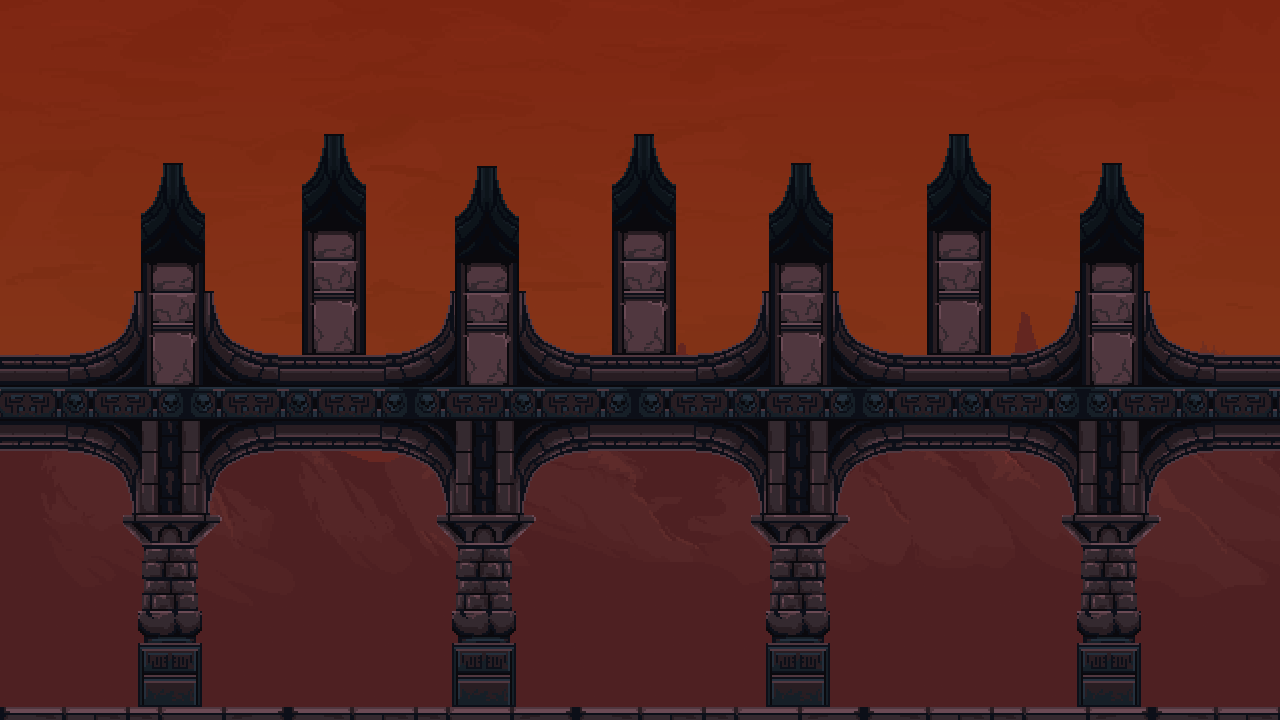
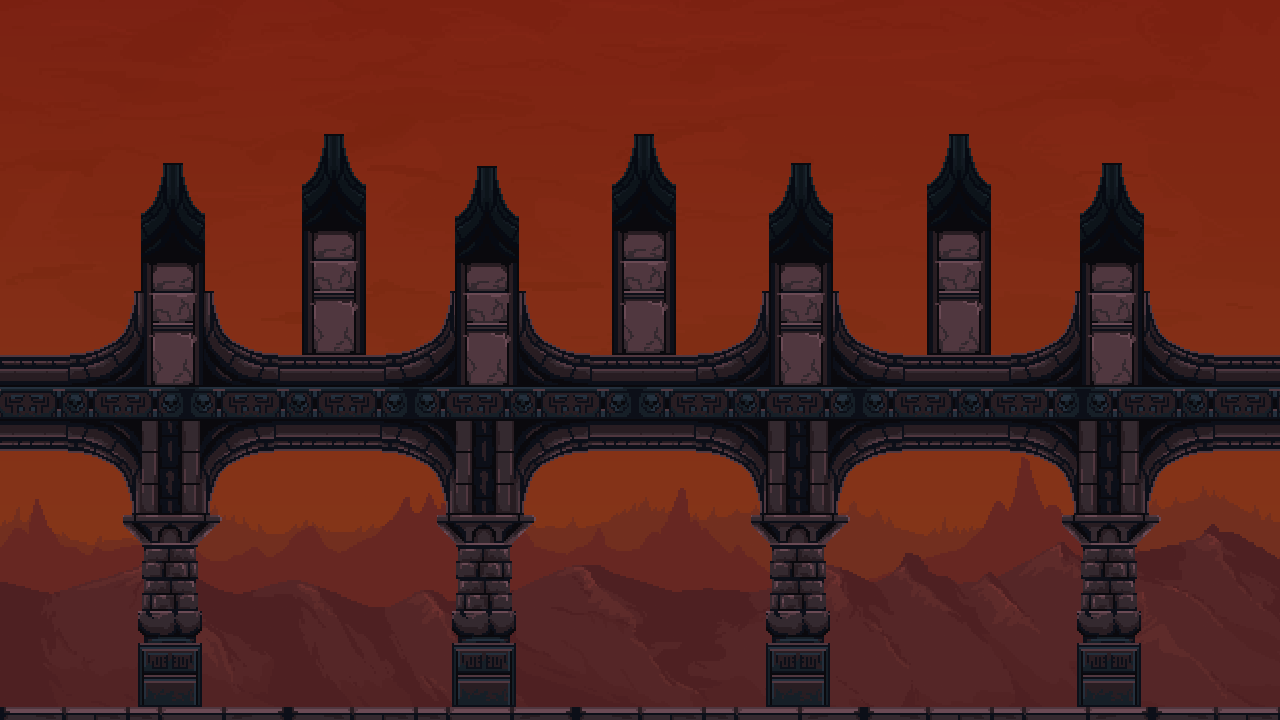
Update biome3

diff --git a/src/scene/CharacterScene.java b/src/scene/CharacterScene.java
@@ -1,6 +1,5 @@
 package scene;
 
-import entities.Player;
 import image.GifPlayer;
 import javafx.animation.Timeline;
 import javafx.geometry.Insets;

diff --git a/src/scene/MenuScene.java b/src/scene/MenuScene.java
@@ -6,7 +6,6 @@ import component.GameButtonType;
 import image.GifPlayer;
 import javafx.animation.Timeline;
 import javafx.application.Platform;
-import javafx.geometry.Insets;
 import javafx.geometry.Pos;
 import javafx.scene.image.ImageView;
 import javafx.scene.layout.VBox;